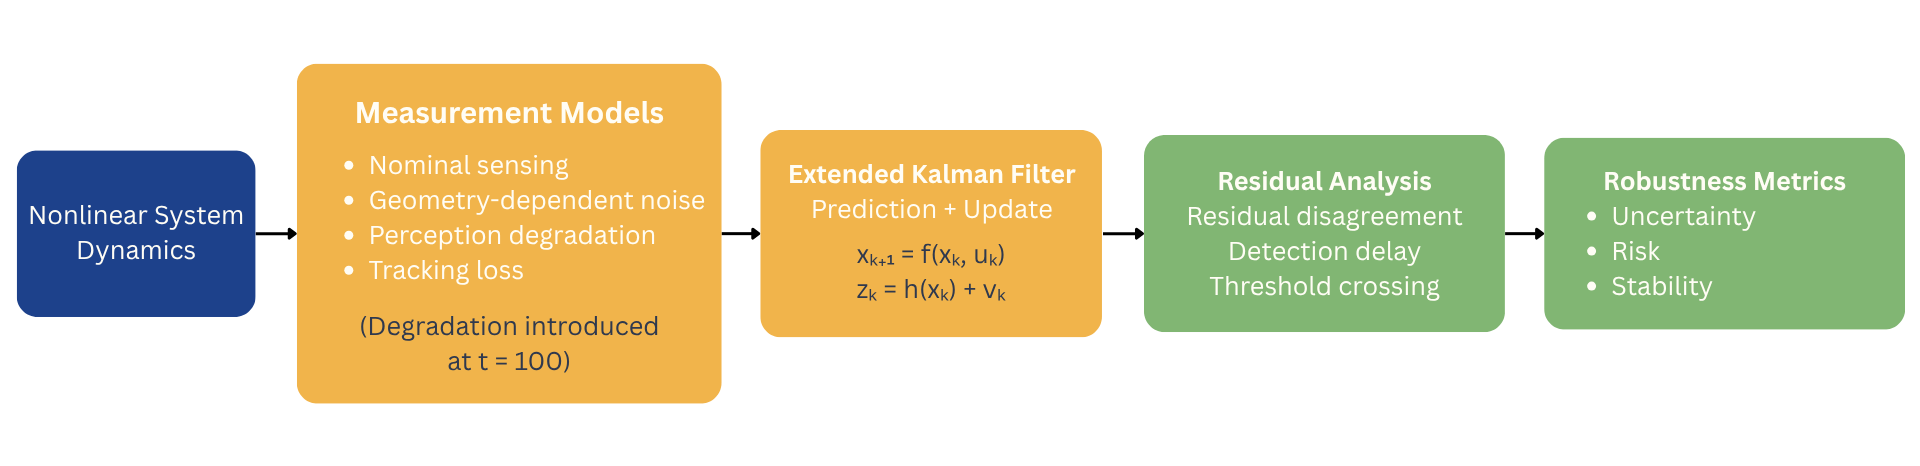
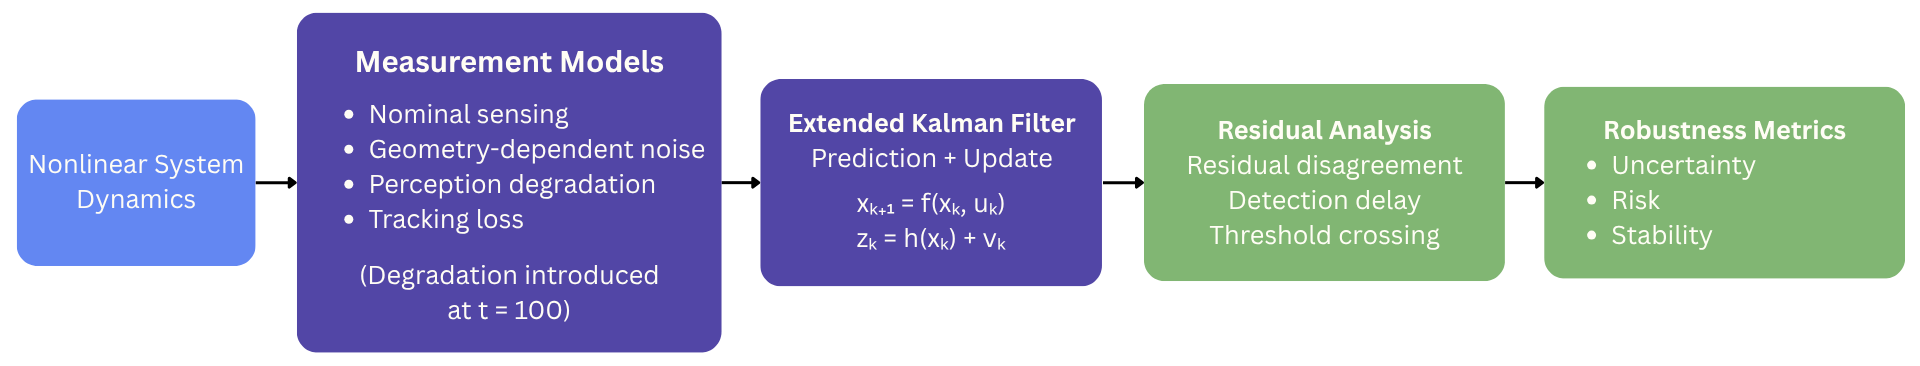
Changed readme layout

diff --git a/README.md b/README.md
@@ -1,35 +1,27 @@
 # Robust State Estimation Under Imperfect Sensing
 
-## Abstract
+<h3>System Overview</h3>
+
+![System Structure](supporting_figures/system_diagram.png)
+
+<table>
+<tr valign="top">
+<td width="60%">
+<h2>Abstract</h2>
 
 This project studies how sensing degradation affects state estimation robustness in dynamical systems. An Extended Kalman Filter (EKF) is evaluated under three sensing regimes: nominal sensing, geometry-dependent sensing, and perception-driven sensing with intermittent tracking failures. Residual-based uncertainty and risk metrics are compared against covariance-based EKF confidence estimates to analyze detection delay, estimator stability, and failure behavior under imperfect perception.
 
-## Key Findings
+<h2>Core Questions</h2>
 
-* Residual disagreement detects sensing degradation earlier than covariance-based confidence estimates.
-* Geometry-dependent and perception-like sensing produce delayed EKF awareness despite increasing measurement uncertainty.
-* Tracking loss and perception degradation produce distinct uncertainty signatures.
-* Stability metrics reveal when estimator confidence no longer reflects sensing reliability.
-
-## System Overview
-![System Structure](supporting_figures/system_diagram.png)
-
-## Core Questions
 * How does sensing degradation affect estimator stability?
 * When does EKF covariance fail to reflect true sensing uncertainty?
 * Can residual-based metrics detect degradation earlier than covariance-based confidence estimates?
 * How do different sensing modalities produce different estimator failure modes?
 
-
-## Measurement Modalities
-
-| Modality                   | Characteristics                                   | Failure Behavior    |
-| -------------------------- | ------------------------------------------------- | ------------------- |
-| Nominal sensing            | Low-noise direct measurements                     | Stable estimation   |
-| Geometry-dependent sensing | Noise increases with distance                     | Gradual degradation |
-| Perception-driven sensing  | Distance degradation + intermittent tracking loss | Bursty instability  |
-
-## Repository Structure
+</td>
+<td width="5%"></td>
+<td width="35%">
+<h2>Repository Structure</h2>
 
 - `src/` — dynamics, sensing, estimation, and metric implementations
 - `configs/` — experiment configurations
@@ -38,8 +30,31 @@ This project studies how sensing degradation affects state estimation robustness
 
 ## Quickstart
 
-pip install -r requirements.txt\
+```python
+pip install -r requirements.txt
 python main.py
+```
+
+</td>
+
+</tr>
+</table>
+
+<h2>Key Findings</h2>
+
+* Residual disagreement detects sensing degradation earlier than covariance-based confidence estimates.
+* Geometry-dependent and perception-like sensing produce delayed EKF awareness despite increasing measurement uncertainty.
+* Tracking loss and perception degradation produce distinct uncertainty signatures.
+* Stability metrics reveal when estimator confidence no longer reflects sensing reliability.
+
+<h2>Measurement Modalities</h2>
+
+| Modality                   | Characteristics                                   | Failure Behavior    |
+| -------------------------- | ------------------------------------------------- | ------------------- |
+| Nominal sensing            | Low-noise direct measurements                     | Stable estimation   |
+| Geometry-dependent sensing | Noise increases with distance                     | Gradual degradation |
+| Perception-driven sensing  | Distance degradation + intermittent tracking loss | Bursty instability  |
+
 
 ## Key Results
 ![System Trajectory](results/trajectory.png)